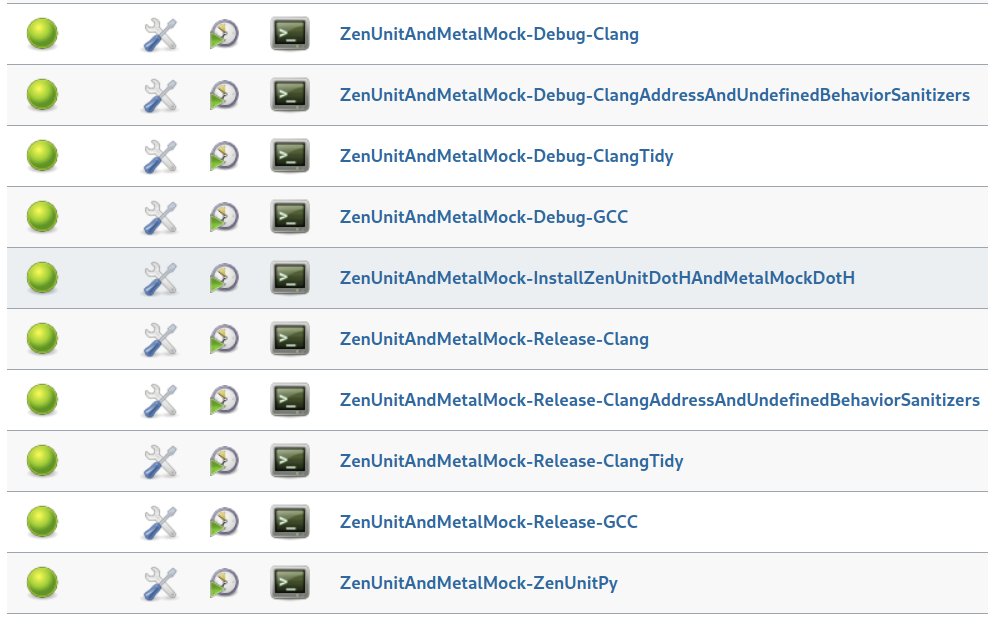
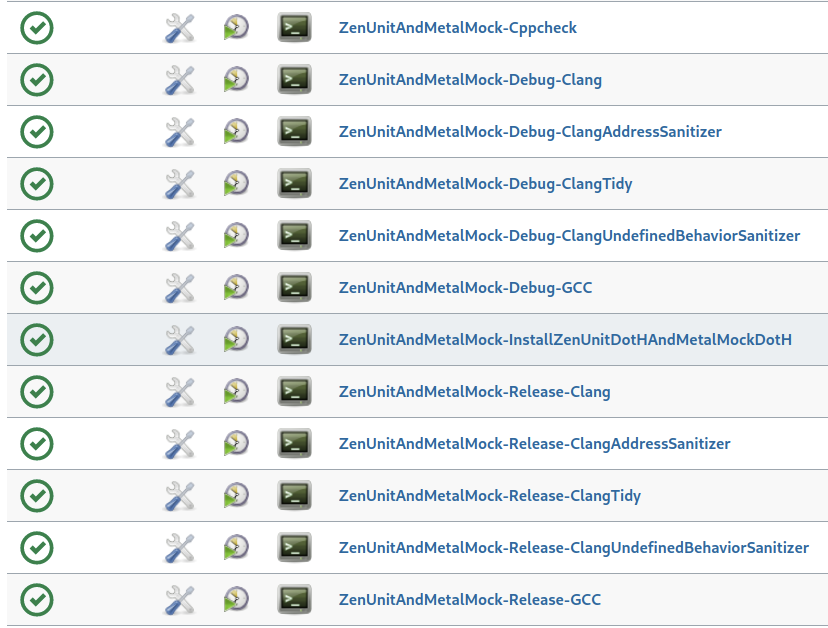
Update Linux Jenkins jobs screenshot

Changed region(s): [[0.0, 0.0, 1.0, 1.0]]

diff --git a/README.md b/README.md
@@ -4,7 +4,7 @@
 
 ZenUnit is a C++ single-header unit testing framework designed for assertion exactness, error message clarity, long-term test code readability, and supports testing with randomized values to maximize [mutation coverage](https://en.wikipedia.org/wiki/Mutation_testing), the next frontier in software quality metrics beyond code coverage. ZenUnit's key feature is its convenient syntax for writing value-parameterized and type-parameterized unit tests.
 
-MetalMock is a C++ single-header mocking framework powered by ZenUnit assertions and features a convenient arrange-act-assert syntax for specifying function return values and expected function call arguments from and to virtual functions, non-virtual functions, static functions, and free functions. MetalMock is a "double strict" mocking framework so as to be suitable for rigorously confirming the correctness of safety-critical and financially-critical C++ software - meaning that all MetalMocked function calls must be first explicitly expected and then explicitly asserted as having been called with exact expected arguments.
+MetalMock is a C++ single-header mocking framework powered by ZenUnit assertions and features a convenient arrange-act-assert syntax for specifying function return values and expected function call arguments from and to virtual functions, non-virtual functions, static functions, and free functions. MetalMock is a "double strict" mocking framework so as to be suitable for rigorously confirming the correctness of safety-critical and financially-critical C++ software - meaning that MetalMocked function calls must be both explicitly expected and explicitly asserted as having been called with exact expected arguments.
 
 |Build Type|Build Status|
 |----------|------------|
@@ -34,7 +34,7 @@ MetalMock is a C++ single-header mocking framework powered by ZenUnit assertions
    * [How To Write A Custom ZenUnit::Equalizer\<T\> struct To Achieve Field-By-Field Assertion Granularity](Documentation/HowToWriteACustomZenUnitEqualizer.md)
    * [Guide To MetalMock](Documentation/GuideToMetalMock.md)
    * [Mutation Coverage Can Be Maximized By Testing With Random Values](#mutation-coverage-can-be-maximized-by-testing-with-random-values)
-   * [Linux Jenkins Jobs Which Build, Unit Test, clang-tidy, AddressSanitize, UndefinedBehaviorSanitize, And ThreadSanitize ZenUnit And MetalMock](#linux-jenkins-jobs-which-build-unit-test-clang-tidy-addresssanitize-undefinedbehaviorsanitize-and-threadsanitize-zenunit-and-metalmock)
+   * [Linux Jenkins Jobs Which Build, clang-tidy, Cppcheck, AddressSanitize, and UndefinedBehaviorSanitize ZenUnit And MetalMock](#linux-jenkins-jobs-which-build-unit-test-clang-tidy-addresssanitize-undefinedbehaviorsanitize-and-threadsanitize-zenunit-and-metalmock)
    * [Windows Jenkins Jobs Which Build And Unit Test ZenUnit And MetalMock](#windows-jenkins-jobs-which-build-and-unit-test-zenunit-and-metalmock)
    * [ZenUnit And MetalMock Code Structure As It Appears In Visual Studio Code](#zenunit-and-metalmock-code-structure-as-it-appears-in-visual-studio-code)
    * [ZenUnit And MetalMock Code Structure As It Appears In Visual Studio 2019](#zenunit-and-metalmock-code-structure-as-it-appears-in-visual-studio-2019)
@@ -525,7 +525,7 @@ Testing using random values instead of constant values renders test code immune 
 |`ZenUnit::RandomNonEmptyUnorderedSet<T>()`|Returns a a `std::unordered_set<T>` with size between 1 and 3 with each element a `ZenUnit::Random<T>()` value.|
 |`ZenUnit::RandomUnorderedSetWithSize<T>()`|Returns a a `std::unordered_set<T>` with size `size` with each element a `ZenUnit::Random<T>()` value.|
 
-### Linux Jenkins Jobs Which Build, Unit Test, clang-tidy, AddressSanitize, UndefinedBehaviorSanitize, And ThreadSanitize ZenUnit And MetalMock
+### Linux Jenkins Jobs Which Build, clang-tidy, Cppcheck, AddressSanitize, and UndefinedBehaviorSanitize ZenUnit And MetalMock
 
 ![Linux Jenkins Jobs](Screenshots/Linux/LinuxJenkinsJobs.png)
 
@@ -570,20 +570,18 @@ ZenUnit.h and MetalMock.h installed on Windows:
 
 ### ZenUnit Roadmap
 
-|Future ZenUnit Feature|Implementation Status As Of 3/8/2021|
+|Future ZenUnit Feature|Implementation Status As Of 3/15/2021|
 |----------------------|-------------------------------------|
-|`ARE_NEAR` floating point assertion|In progress|
+|`FLOATS_ARE_NEAR` and `DOUBLES_ARE_NEAR` assertions|In progress|
 |GitHub Actions build|Awaiting implementation|
-|SonarCloud badge for ZenUnitPyUtils Python|Awaiting implementation|
-|ctest support|Awaiting implementation|
-|SonarCloud badge for ZenUnit and MetalMock C++|Awaiting implementation|
-|SonarQube Jenkins pipelines on Linux And Windows with pipeline screenshots added to this readme file|Awaiting implementation|
-|Coverity badge|Awaiting implementation|
+|SonarCloud Python static analysis badge for ZenUnitPyUtils|Awaiting implementation|
+|SonarCloud C++ static analysis badge|Awaiting implementation|
+|Coverity C++ static analysis badge|Awaiting implementation|
 |`--parallel` for parallel running of tests|Awaiting implementation|
 
 ### MetalMock Roadmap
 
-|Future MetalMock Feature|Implementation Status As Of 3/8/2021|
+|Future MetalMock Feature|Implementation Status As Of 3/15/2021|
 |------------------------|-------------------------------------|
 |Ordered function call assertions because the ordering of function calls is of course fundamental to program correctness.|Awaiting implementation|
 
